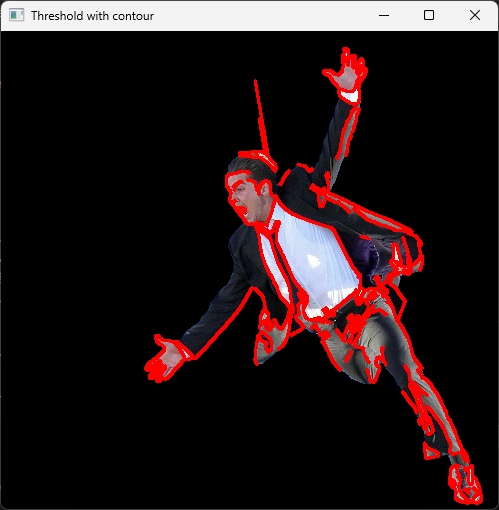
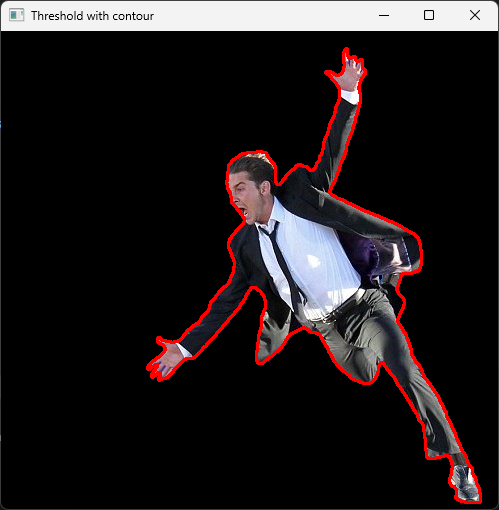
fixing on contour function

diff --git a/Assignment#2/main.py b/Assignment#2/main.py
@@ -4,7 +4,7 @@ import matplotlib.pyplot as plt
 
 
 #include a parameter
-img_path = r'IMAGE PATH'
+img_path = r'C:\Users\ASUS\Desktop\AI_by_Pradya\Assignment#2\BlueScreenJump.jpg'
 upper_blue = 110
 lower_blue = 96.7
 
@@ -18,15 +18,15 @@ blur = cv2.GaussianBlur(image,(5,5),0)
 gray = cv2.cvtColor(blur, cv2.COLOR_BGR2GRAY)
 edge = cv2.Canny(gray, 140, 210)
 
-con, _ = cv2.findContours(edge, cv2.RETR_EXTERNAL, cv2.CHAIN_APPROX_NONE)
+# con, _ = cv2.findContours(edge, cv2.RETR_EXTERNAL, cv2.CHAIN_APPROX_NONE)
 # convert from RGB to HSV
 blur = cv2.cvtColor(blur, cv2.COLOR_BGR2LAB)
 
 _,_, B = cv2.split(blur)
 
-print(len(con))
 # inv-threshold a blue color in picture
 _, frame = cv2.threshold(B, lower_blue, 255, cv2.THRESH_BINARY)
+con, _ = cv2.findContours(frame, cv2.RETR_EXTERNAL, cv2.CHAIN_APPROX_NONE)
 
 # mask an image from threshold
 res = cv2.bitwise_and(image, image, mask=frame)
